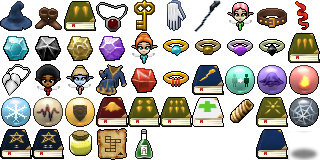
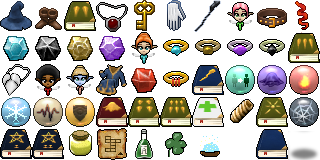
ADD Luck and Fairy Powder items
complete

Changed region(s): [[0.5, 0.8125, 0.5938, 0.9688], [0.625, 0.875, 0.6875, 1.0]]

diff --git a/src/WitchBlastGame.cpp b/src/WitchBlastGame.cpp
@@ -1690,6 +1690,24 @@ void WitchBlastGame::renderRunningGame()
       app->draw(alcSprite);
     }
 
+    if (player->isEquiped(EQUIP_LUCK))
+    {
+      sf::Sprite alcSprite;
+      alcSprite.setTexture(*ImageManager::getInstance().getImage(IMAGE_ITEMS_EQUIP));
+      alcSprite.setTextureRect(sf::IntRect(ITEM_WIDTH * 5, ITEM_HEIGHT * 4,  ITEM_WIDTH, ITEM_HEIGHT));
+      alcSprite.setPosition(704, 681);
+      app->draw(alcSprite);
+    }
+
+    if (player->isEquiped(EQUIP_FAIRY_POWDER))
+    {
+      sf::Sprite alcSprite;
+      alcSprite.setTexture(*ImageManager::getInstance().getImage(IMAGE_ITEMS_EQUIP));
+      alcSprite.setTextureRect(sf::IntRect(ITEM_WIDTH * 6, ITEM_HEIGHT * 4,  ITEM_WIDTH, ITEM_HEIGHT));
+      alcSprite.setPosition(671, 681);
+      app->draw(alcSprite);
+    }
+
     // drawing message icon
     if (!messagesQueue.empty())
     {

diff --git a/src/FairyEntity.cpp b/src/FairyEntity.cpp
@@ -108,7 +108,7 @@ void FairyEntity::animate(float delay)
       teleportDelay = 4.0f + 0.1f * (rand() % 35);
       SoundManager::getInstance().playSound(SOUND_TELEPORT);
 
-      for(int i=0; i < 6; i++)
+      for(int i=0; i < 50; i++)
       {
         game().generateStar(sf::Color(50, 50, 255, 255), x, y);
         game().generateStar(sf::Color(200, 200, 255, 255), x, y);

diff --git a/src/PlayerEntity.cpp b/src/PlayerEntity.cpp
@@ -347,6 +347,8 @@ void PlayerEntity::resetFloorItem()
   equip[EQUIP_BOSS_KEY] = false;
   equip[EQUIP_FLOOR_MAP] = false;
   equip[EQUIP_ALCOHOL] = false;
+  equip[EQUIP_FAIRY_POWDER] = false;
+  equip[EQUIP_LUCK] = false;
   computePlayer();
 }
 
